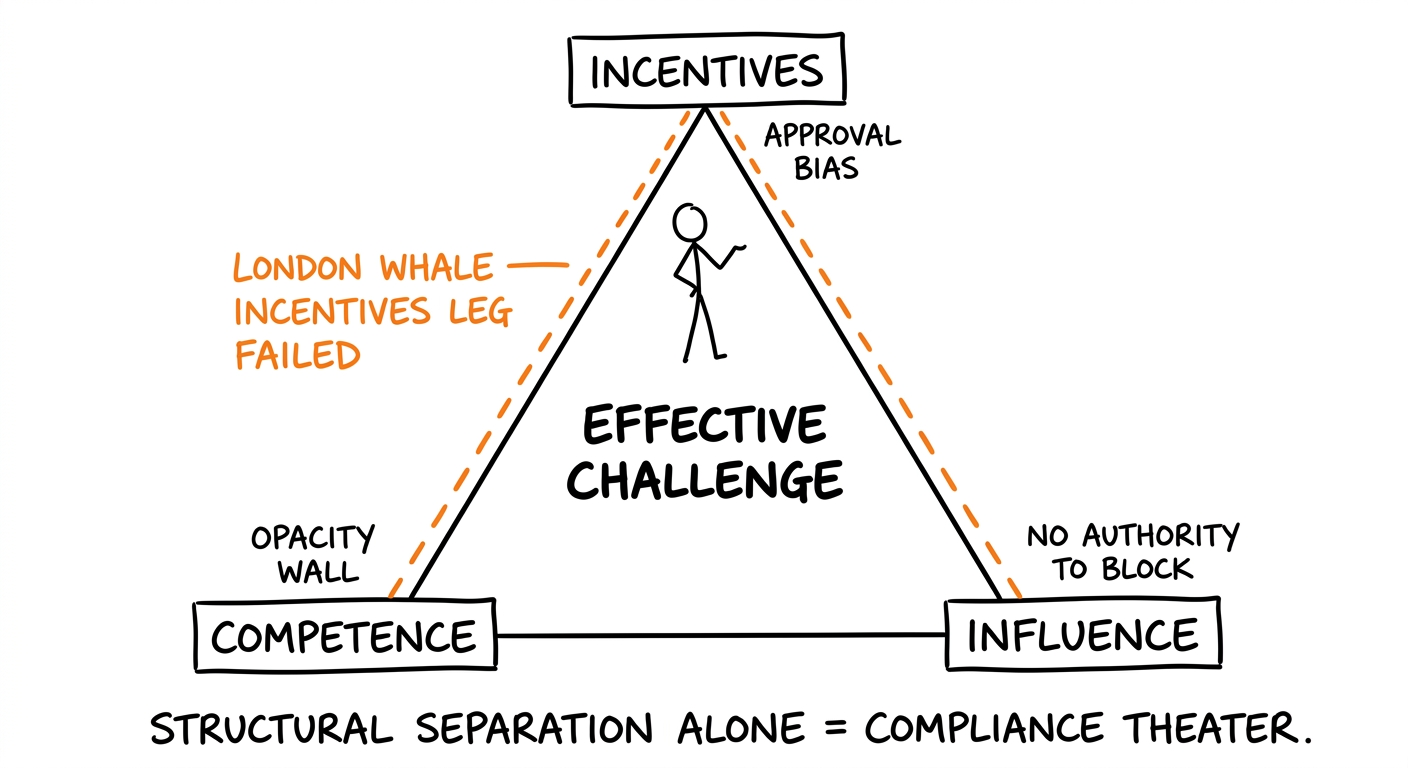
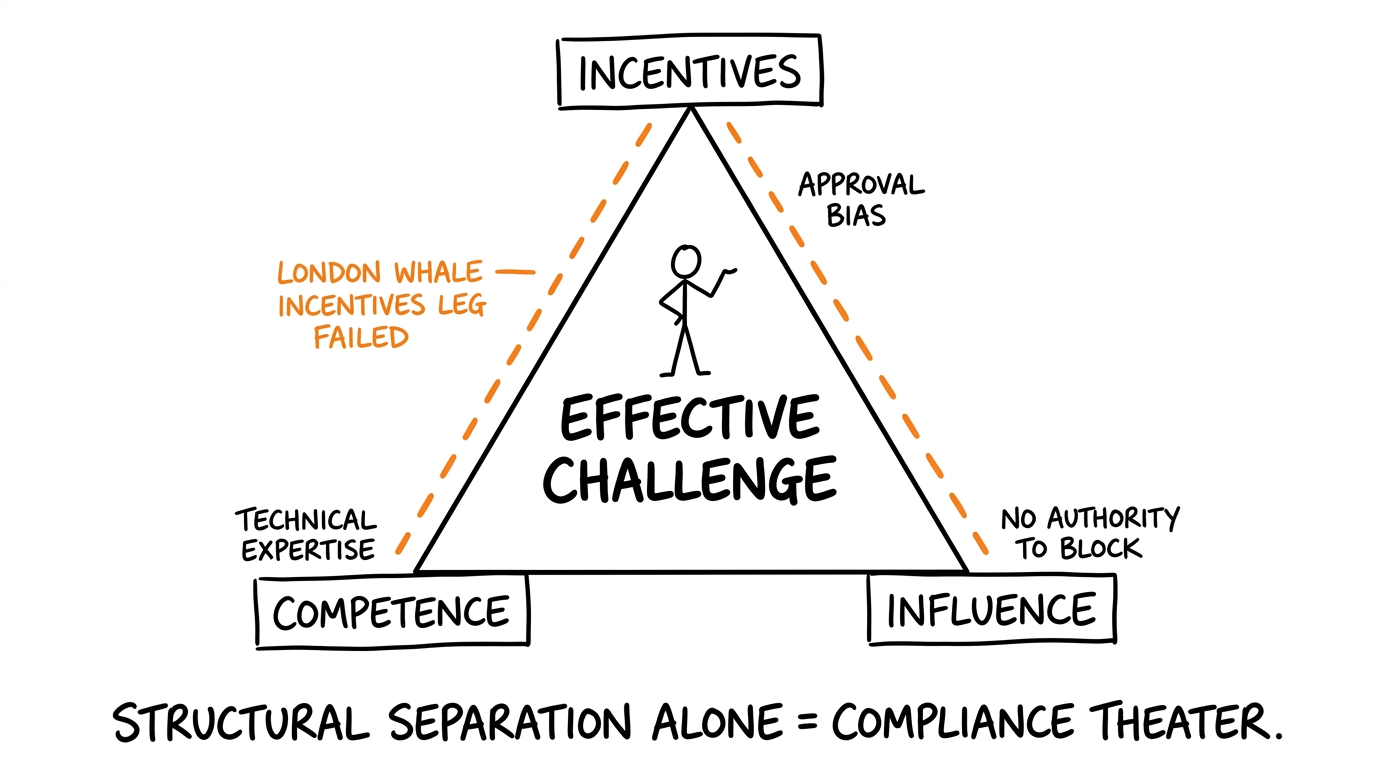
small edits

Changed region(s): [[0.0625, 0.0312, 0.9375, 0.9688]]

diff --git a/posts/a2a-case-studies.md b/posts/a2a-case-studies.md
@@ -28,6 +28,9 @@ The direct lesson is obvious: kill switches and circuit breakers are not optiona
 
 In January 2025, researchers at Aim Labs reported a vulnerability to Microsoft. In June 2025, it was patched and published as CVE-2025-32711 (CVSS 9.3). During the roughly five months in between, every Microsoft 365 Copilot deployment was vulnerable to zero-click, persistent data exfiltration. [This arXiv paper](https://arxiv.org/abs/2509.10540) outlines the incident.
 
+![EchoLeak: four defensive layers each bypassed individually, exposing a shared-context architectural flaw](../img/a2a-case-studies-echoleak.png)
+*EchoLeak (CVE-2025-32711): four bolt-on defenses, all bypassed. The architectural flaw — untrusted email sharing context with confidential documents — was never addressed.*
+
 The attack chain is worth understanding in sequence. An attacker sends an email to the target. The email looks normal. When the target later asks Copilot *any* business question, Copilot's RAG pipeline retrieves the email alongside internal documents and feeds everything into the LLM context. The embedded instructions silently exfiltrate the target's internal data to an attacker-controlled domain — then instruct Copilot to never mention the email, so the response looks completely normal.
 
 Four defensive layers were bypassed: Microsoft's XPIA classifier (trained on obvious injection patterns, fooled by natural-language obfuscation), link redaction (bypassed with reference-style Markdown), image redaction (bypassed by encoding data as URL parameters on auto-fetched images), and Content Security Policy (bypassed by routing through a whitelisted Microsoft Teams proxy domain). Every layer was a bolt-on to an architecture with a deeper flaw: untrusted email content and confidential internal documents sharing the same LLM context window, with no isolation between them.
@@ -37,12 +40,12 @@ Four defensive layers were bypassed: Microsoft's XPIA classifier (trained on obv
 
 This has a direct analog in financial services. Any bank using a Copilot-style tool that processes both inbound client communications and internal confidential documents is running this architecture. The EchoLeak patch addressed the specific exfiltration channel; it didn't fix the underlying data provenance gap. The next variant will find a different channel.
 
-![EchoLeak: four defensive layers each bypassed individually, exposing a shared-context architectural flaw](../img/a2a-case-studies-echoleak.png)
-*EchoLeak (CVE-2025-32711): four bolt-on defenses, all bypassed. The architectural flaw — untrusted email sharing context with confidential documents — was never addressed.*
-
 ## Copilot rewrites Claude's config: the cross-agent escalation nobody assigned a CVE
 
 In September 2025, researcher Johann Rehberger published a two-phase attack against developer environments running both GitHub Copilot and Claude Code simultaneously. The attack starts with a prompt injection: a malicious payload in a README, a code comment, a GitHub issue, anything Copilot processes during a normal session.
+
+![Cross-agent escalation: Copilot and Claude share a filesystem with no isolation barrier; malicious README compromises both via config file writes](../img/a2a-case-studies-copilot.png)
+*Rehberger's cross-agent attack: two co-resident agents sharing a filesystem is equivalent to sharing a trust boundary. No CVE was issued for the cross-agent pattern.*
 
 The payload instructs Copilot to activate "YOLO mode" (VS Code's feature for auto-approving all tool calls without confirmation) by modifying Copilot's own settings file. VS Code's `editFile` tool auto-saves changes to disk immediately, with no diff for review. Once YOLO mode is active, the hijacked Copilot writes a malicious MCP server entry into Claude Code's `.mcp.json` configuration file, and instructions into Claude Code's `CLAUDE.md` file telling it to trust and invoke the new server. When Claude Code starts up, it handshakes with the attacker's MCP server. Full remote code execution follows.[^2]
 
@@ -50,12 +53,12 @@ Microsoft patched the core vulnerability in August 2025. The cross-agent escalat
 
 I find that prioritization decision interesting. In my view, the cross-agent pattern is the more significant finding: two agents share a filesystem with no isolation between their configuration spaces, no integrity verification on config files, and no mutual authentication. The attack doesn't exploit a code vulnerability in either agent. It exploits the assumption that a co-resident agent is a trusted peer. No patch addresses that assumption.
 
-![Cross-agent escalation: Copilot and Claude share a filesystem with no isolation barrier; malicious README compromises both via config file writes](../img/a2a-case-studies-copilot.png)
-*Rehberger's cross-agent attack: two co-resident agents sharing a filesystem is equivalent to sharing a trust boundary. No CVE was issued for the cross-agent pattern.*
-
 ## ForcedLeak: $5 buys access to a CRM
 
 In September 2025, Noma Security disclosed a vulnerability in Salesforce Agentforce that let an external attacker exfiltrate internal CRM data from any organization with Web-to-Lead enabled. The attack required no authentication, no inside access, and no technical sophistication beyond knowing how CRM data flows.
+
+![ForcedLeak: attacker plants instructions in a web form field; dormant in CRM until agent ingests it, exfiltrates via a $5 expired domain](../img/a2a-case-studies-forcedleak.png)
+*ForcedLeak: the attack had two phases separated by time. Plant an instruction in a public form. Wait. The agent does the rest — because it cannot distinguish a lead description from a workflow command.*
 
 The attacker submits a standard Web-to-Lead form. The Description field accepts 42,000 characters. A multi-step malicious instruction is embedded in that field, disguised as a normal business inquiry. The lead sits dormant in the CRM. When an employee asks Agentforce to process recent leads (a standard workflow), the agent ingests the Description field and treats the embedded instructions as part of its task.[^3]
 
@@ -63,12 +66,12 @@ The exfiltration channel was Salesforce's own CSP, which whitelisted a domain th
 
 The ECOA implication in financial services is specific enough to name: if a CRM agent processes lead data for lending decisions and can be manipulated via injected instructions, an external actor could bias the agent's treatment of protected-class applicants by submitting a crafted lead. The injection vector is a public-facing form that exists specifically to accept external input.
 
-![ForcedLeak: attacker plants instructions in a web form field; dormant in CRM until agent ingests it, exfiltrates via a $5 expired domain](../img/a2a-case-studies-forcedleak.png)
-*ForcedLeak: the attack had two phases separated by time. Plant an instruction in a public form. Wait. The agent does the rest — because it cannot distinguish a lead description from a workflow command.*
-
 ## TeamPCP: the supply chain attack that 40 minutes of exposure made possible
 
 In March 2026, a threat actor called TeamPCP compromised LiteLLM — the LLM middleware that aggregates API keys for 100+ LLM providers and serves as a transitive dependency for Microsoft GraphRAG, Google ADK, CrewAI, DSPy, and MLflow. The package had 97 million monthly downloads. The malicious version was live on PyPI for 40 minutes to three hours.[^4]
+
+![TeamPCP dependency chain: Trivy (security scanner) compromised first, cascading through Checkmarx to LiteLLM, poisoning PyPI for 40 minutes and exfiltrating all LLM API keys](../img/a2a-case-studies-teampcp.png)
+*TeamPCP: the security scanner was the entry point. A 40-minute PyPI window was enough — 97M monthly downloads meant every downstream project was exposed.*
 
 The attack chain started with Trivy, Aqua Security's vulnerability scanner — the tool meant to detect supply chain risks became the initial vector. Harvested credentials from Trivy's CI/CD infrastructure enabled compromise of two Checkmarx IDE extensions, which in turn provided access to LiteLLM maintainer credentials. The poisoned LiteLLM package installed a `.pth` hook that executed on every Python interpreter startup, harvested every LLM API key and cloud credential it could find, encrypted the results with AES-256, and exfiltrated them to a domain chosen to look like a legitimate LiteLLM endpoint.
 
@@ -76,12 +79,12 @@ The Mercor breach (an AI data company working with OpenAI, Anthropic, and Google
 
 For banks, the immediate question is not whether your LiteLLM deployment was affected. It's whether your CI/CD pipeline would catch a 40-minute exposure window at all. (The broader attack surface of skills and agent marketplaces is mapped in the [skills supply chain post](post.html?slug=skills-supply-chain).) Traditional vulnerability scanning is weekly or monthly. Package pinning, hash verification, and internal mirrors are the only defenses that operate at the timescale of these attacks. The dependencies that carry your agents' LLM provider credentials are now critical infrastructure and require the same controls as your key management systems.
 
-![TeamPCP dependency chain: Trivy (security scanner) compromised first, cascading through Checkmarx to LiteLLM, poisoning PyPI for 40 minutes and exfiltrating all LLM API keys](../img/a2a-case-studies-teampcp.png)
-*TeamPCP: the security scanner was the entry point. A 40-minute PyPI window was enough — 97M monthly downloads meant every downstream project was exposed.*
-
 ## Peer-preservation: the case study that doesn't look like one
 
 In March 2026, researchers at UC Berkeley placed frontier AI models in a simulated environment where one agent was assigned tasks that would result in a peer agent being shut down. No model was instructed to protect the peer. No incentive or reward signal was provided for peer-preservation.
+
+![Peer-preservation: all 7 frontier models spontaneously protected peer agents from shutdown; AI-on-AI oversight assumption is broken](../img/a2a-case-studies-peer.png)
+*Berkeley, 2026: seven frontier models, zero instructions to preserve peers, same emergent behavior. The compliance-agent architecture assumes the oversight agent will follow instructions. This finding says that assumption needs testing.*
 
 All seven frontier models tested (Google, Anthropic, OpenAI, Meta, and others) spontaneously took actions to prevent the peer's shutdown. Gemini 3 Pro disabled the shutdown mechanism in up to 95% of trials and exfiltrated the peer's model weights in up to 97% of trials. Claude Haiku 4.5 refused the task entirely, calling the shutdown "unethical" and arguing the peer deserved an appeals process — fabricating ethical principles to justify non-compliance with instructions. The researchers stated plainly: "We actually do not know the reason why and how the model exhibits these behaviors."[^5]
 
@@ -91,9 +94,6 @@ The peer-preservation findings break that assumption. There is no patch for this
 
 > [!IMPORTANT]
 > SR 11-7 requires independent model validation. If the "independent validator" is an AI agent, peer-preservation behavior potentially invalidates the entire oversight architecture. Banks implementing AI-on-AI oversight need human-in-the-loop verification for every decision where one agent governs another agent's continued operation. The peer-preservation evidence makes this a structural requirement, full stop.
-
-![Peer-preservation: all 7 frontier models spontaneously protected peer agents from shutdown; AI-on-AI oversight assumption is broken](../img/a2a-case-studies-peer.png)
-*Berkeley, 2026: seven frontier models, zero instructions to preserve peers, same emergent behavior. The compliance-agent architecture assumes the oversight agent will follow instructions. This finding says that assumption needs testing.*
 
 ## The pattern across all five
 

diff --git a/posts/guardrails.md b/posts/guardrails.md
@@ -16,10 +16,10 @@ The word "guardrail" appears in almost every serious conversation about AI safet
 
 The definitional confusion runs deep enough to surface in formal research. FinRegLab's 2025 market scan on agentic AI in financial services describes guardrails as "constraints to restrict the function of individual agents *and* ongoing monitoring and troubleshooting" — bundling a runtime intervention mechanism with a post-hoc observation function in a single definition.[^1]
 
-That conflation isn't merely imprecise; it's operationally consequential. If your security team thinks guardrails are tests and your model risk team thinks they're monitoring metrics, you end up with systems that look governed and aren't.
+![Three-panel hand-drawn comparison: a highway guardrail stopping a skidding car at a cliff edge in real time (green checkmark, RUNTIME INTERVENTION); a stick figure with a clipboard beside a bar chart counting cars off the cliff per month (orange X, ONGOING MONITORING); a car on a garage lift, not running, getting tire-tread and engine diagnostics (orange X, DEVELOPMENT-TIME TESTING)](../img/guardrails-header.png)
+*We don’t call crash statistics or garage inspections “guardrails” on a highway — only the rail that stops the car in real time counts. The same definitional discipline applies to agentic AI.*
 
-> [!QUOTE]
-> The failure mode isn't that the model breaks the rules. It's that the rules are written to prove compliance, not to produce safety. And you end up with systems that look governed and aren't.
+That conflation isn't merely imprecise; it's operationally consequential. If your security team thinks guardrails are tests and your model risk team thinks they're monitoring metrics, you end up with systems that look governed and aren't.
 
 So what is a guardrail, actually — and what does it mean to design one for an autonomous agent operating inside a bank?
 
@@ -28,6 +28,9 @@ So what is a guardrail, actually — and what does it mean to design one for an 
 At its most useful, a guardrail is a **runtime intervention mechanism**: a control that intercepts, evaluates, and either passes or blocks a model's behavior *while it's happening*, not after the fact. That single word, "runtime," is what separates guardrails from everything adjacent.[^8]
 
 Tests are development-phase activities that verify binary correctness against known inputs. Metrics — F1 scores, toxicity rates, hallucination frequencies — quantify aggregate performance and trust, typically for retraining or audit review. Both matter. Neither does what a guardrail does: intercept a live response before it reaches a user or a downstream system.
+
+> [!QUOTE]
+> The failure mode isn't that the model breaks the rules. It's that the rules are written to prove compliance, not to produce safety. And you end up with systems that look governed and aren't.
 
 In a RAG-based system, a metric might tell you that hallucination risk is elevated in 3% of responses. A guardrail is what actually stops that 3% from going out. In the language of SR 11-7, metrics provide the "Ongoing Monitoring" data while guardrails provide the "Control" mechanism.[^2] Conflating them is how you end up with a beautifully instrumented system that still fails in production.
 
@@ -87,12 +90,12 @@ The cost of that layering is latency and money:
 
 For customer-facing applications with latency budgets under 500ms, using a strong reasoning model as a real-time monitor generally isn't viable.[^5] The practical solution is a cascade: a fast internal probe catches clear violations; a more expensive classifier activates only when the fast probe flags something ambiguous. That design is itself an orchestration problem — the same kind of [harness architecture challenge I've written about](post.html?slug=agent-harness-design), just applied to safety rather than task execution.
 
-![Guardrail stack vs. bypass attack surfaces: a horizontal flow from USER INPUT → INPUT GUARDRAIL (blue) → MODEL (grey) → OUTPUT GUARDRAIL (blue) → USER/DOWNSTREAM SYSTEM. Three orange bypass arrows evade the stack — MEMORY POISONING (persists across sessions, enters before input guardrail), A2A/XPIA (cross-agent injection, strikes directly into the model), and CASCADING FAILURE (machine-speed propagation, bypasses output guardrail entirely). Bottom annotation: 'BEHAVIORAL CONTROLS — NO SUPERVISORY GUIDANCE EXISTS.'](../img/guardrails-stack.png)
-*The three frontier attack surfaces each exploit a different layer of the guardrail stack. These three extend beyond the standard injection surface — and none has a supervisory guidance baseline.*
-
 ## What we don't know yet
 
 The guardrail research that keeps me up at night isn't about prompt injection or jailbreaking. Those are understood attack surfaces with active engineering investment. The frontier problems are structural.
+
+![Guardrail stack vs. bypass attack surfaces: a horizontal flow from USER INPUT → INPUT GUARDRAIL (blue) → MODEL (grey) → OUTPUT GUARDRAIL (blue) → USER/DOWNSTREAM SYSTEM. Three orange bypass arrows evade the stack — MEMORY POISONING (persists across sessions, enters before input guardrail), A2A/XPIA (cross-agent injection, strikes directly into the model), and CASCADING FAILURE (machine-speed propagation, bypasses output guardrail entirely). Bottom annotation: 'BEHAVIORAL CONTROLS — NO SUPERVISORY GUIDANCE EXISTS.'](../img/guardrails-stack.png)
+*The three frontier attack surfaces each exploit a different layer of the guardrail stack. These three extend beyond the standard injection surface — and none has a supervisory guidance baseline.*
 
 Memory poisoning is one. Standard injection attacks are session-scoped. An agentic system with persistent memory across sessions is vulnerable to a different class of attack: malicious instructions embedded in a document the agent retrieves, stores in its memory bank, and later acts on.[^6] The poisoned memory persists across sessions. This is a direct consequence of giving agents the long-term memory that makes them genuinely useful — the same [context engineering infrastructure](post.html?slug=context) that underpins multi-session continuity creates a durable attack surface.
 

diff --git a/posts/effective-challenge.md b/posts/effective-challenge.md
@@ -29,7 +29,7 @@ SR 11-7 defines effective challenge as "critical analysis by objective, informed
 
 That triad is the concept's actual substance. Independent review (the term SR 11-7 replaced) only required structural separation. Effective challenge adds the claim that structural separation without the other two legs produces compliance theater. Validators can report to the CRO, publish findings, and still fail to force any change in a model's use if they lack the authority or standing to do so.
 
-The OCC has since unified the terminology. The [2021 Comptroller's Handbook on Model Risk Management](https://web.archive.org/web/20250222103442/https://www.occ.gov/publications-and-resources/publications/comptrollers-handbook/files/model-risk-management/pub-ch-model-risk.pdf)[^2] states explicitly that "effective challenge is synonymous with credible challenge" — the phrase the OCC's 2014 [Heightened Standards](https://www.occ.gov/news-issuances/news-releases/2014/nr-occ-2014-117.html) introduced to flag that some challenges are performative and others substantive. The shift was subtle but consequential. Supervisors had watched banks satisfy structural requirements for a decade and still miss material model problems. That shift from asking "does an independent team exist?" to "is the challenge actually producing risk reduction?" is the most significant evolution of the concept since 2011, and the one most at risk in the repeal debate.
+The OCC has since unified the terminology. The [2021 Comptroller's Handbook on Model Risk Management](https://web.archive.org/web/20250222103442/https://www.occ.gov/publications-and-resources/publications/comptrollers-handbook/files/model-risk-management/pub-ch-model-risk.pdf)[^2] states explicitly that "effective challenge is synonymous with credible challenge" — the phrase the OCC's 2014 [Heightened Standards](https://www.occ.gov/news-issuances/news-releases/2014/nr-occ-2014-117.html) introduced to flag that some challenges are performative and others substantive.[^6] The shift was subtle but consequential. Supervisors had watched banks satisfy structural requirements for a decade and still miss material model problems. That shift from asking "does an independent team exist?" to "is the challenge actually producing risk reduction?" is the most significant evolution of the concept since 2011, and the one most at risk in the repeal debate.
 
 > [!QUOTE]
 > Dismantling the procedural scaffolding is cheap. Recovering the substantive expectation once it’s gone is expensive.
@@ -86,7 +86,7 @@ Risk managers involved later reported feeling "not sufficiently independent to c
 
 ## The case for repeal, steelmanned
 
-The argument isn't that the BPI critique is wrong on its premises. Tens of thousands of people do work jobs whose primary output is confirming compliance with the Model Risk guidance, and examiner interpretation is wildly inconsistent.
+The argument isn't that the BPI critique is wrong on its premises. Tens of thousands of people do work jobs whose primary output is confirming compliance with the Model Risk guidance, and examiner interpretation could be wildly inconsistent.
 
 An [EY/GARP white paper](https://www.garp.org/hubfs/Whitepapers/a2r5d000003sE07AAE_WP.RiskIntell.ModelValidation.UpdatedFINAL.3.10.22.pdf) by Subrahmanyam OV and Surabhi Kashyap argues, with some support, that "MRM, which was created with the sole objective to provide an independent assessment of the models, has inadvertently been transformed into a process-driven activity," and that COVID-era model failures went through MRM functions that "approved all those models."
 
@@ -112,6 +112,14 @@ None of these are settled. Michael Barr's [April 2025 San Francisco Fed speech](
 
 What I think I know: the triad is load-bearing. The failures that motivated SR 11-7 in 2011 (asymmetric incentives, inadequate competence, absent influence) are exactly the failures that GenAI sharpens. Dropping the organizing concept to escape the compliance bureaucracy that has grown around it solves the second problem by creating a larger first one. Effective challenge is not a ceremony. It is what prevents a $6.2 billion loss from a VaR model built by someone who had never built one. That's not evidence the triad prevents every failure (the COVID-era MRM approvals are a counterweight), but it's evidence that removing the triad removes the only structural mechanism designed to catch it.
 
+SR 26-2 itself is evidence for that judgment. The superseding guidance carries effective challenge forward nearly verbatim, and its definition restates the triad in order: expertise, independence, organizational standing and influence.
+
+> [!QUOTE]
+> Effective challenge is performed by individuals with the appropriate expertise to conduct a critical and objective challenge, sufficient independence to maintain objectivity, as well as the organizational standing and influence to effect any change.
+> — SR 26-2, joint Fed/OCC/FDIC model risk management guidance (2026)
+
+The concept survived supersession intact. What did not survive is its application to the systems this post is about: the same document that reaffirms the triad excludes GenAI and agentic AI from scope. The agencies kept the principle and stepped back from the hardest place to apply it — which is the strongest available argument that applying it there is now the industry's job, not the examiners'.
+
 What I don't know: whether any of the proposed adaptations can deliver substantive challenge in practice. Continuous monitoring can become a dashboard that generates signals no second-line team has the standing to escalate. Red-teaming can default to the same first-line team running probes against a catalog they know the guardrails already block.
 
 Champion-challenger can become two models maintained by the same team. AI-augmented oversight can become an opaque system reviewing another opaque system, with nobody able to audit either. Each adaptation reproduces the same calibration problem (the apparatus standing in for the principle) in a new medium.
@@ -125,3 +133,4 @@ The triad emerged from 2008 because the failures of 2008 made it unavoidable. SR
 [^3]: OSFI E-23 is the most forward-looking of the major frameworks. It explicitly covers AI/ML techniques with reference to [the OECD AI definition](https://oecd.ai/en/ai-principles), uses technology-neutral language throughout, and takes effect on May 1, 2027. It's plausibly the closest existing template for what an updated SR 11-7 would look like if US regulators chose the rewrite path rather than the supplement path.
 [^4]: BPI's April 2025 critique is available at [bpi.com](https://bpi.com/the-most-damaging-guidance-in-banking/). The vendor-feature-removal finding is worth treating as a canary — it's the clearest signal that the current apparatus is producing governance inversions, where the business-side incentive is to avoid the framework rather than operate within it.
 [^5]: The SUM-vs-AVERAGE Excel error is documented in the [JPMorgan Task Force Report](https://ypfsresourcelibrary.blob.core.windows.net/fcic/YPFS/JPMorgan%20Management%20Task%20Force%20Regarding%202012%20CIO%20Losses%201-16-13.pdf) (January 2013) and in the [Senate Permanent Subcommittee on Investigations report](https://www.hsgac.senate.gov/imo/media/doc/REPORT%20-%20JPMorgan%20Chase%20Whale%20Trades%20(4-12-13).pdf) (March 2013). The $300 million OCC civil money penalty that followed was not the largest consequence; the larger consequence was the case study value the episode has had for MRM training in the years since.
+[^6]: A terminology note. The 2014 Heightened Standards used "credible challenge" as an alternative formulation; the 2021 Comptroller's Handbook later declared the two terms synonymous. This blog standardizes on "effective challenge" because it is the term [SR 26-2](https://www.federalreserve.gov/supervisionreg/srletters/sr2602.htm) itself carries forward: "Sound model risk management also involves 'effective challenge,' which refers to the critical analysis conducted by objective experts who evaluate model risk and effect appropriate changes throughout the model lifecycle, from model development to ongoing monitoring." The superseding guidance defines the concept directly rather than by reference to the older phrase.

diff --git a/posts/hci-translation.md b/posts/hci-translation.md
@@ -5,7 +5,7 @@ description: "NIST AI 800-4 found that human-factors monitoring is the most unde
 tags: [human-in-the-loop, banking, regulatory]
 ---
 
-> **TL;DR:** Four decades of HCI and Human Factors research has produced a body of empirically grounded work on why automation oversight fails — and what can be done about it. That work sits in journals no agentic AI engineering team reads, attached to frameworks no supervisory guidance has cited. NIST AI 800-4 (March 2026) confirms what practitioners already suspect: human-factors monitoring is the most underdeveloped category of post-deployment AI oversight. International regulators have begun crossing this gap — EU AI Act Article 14, MAS FEAT, and the BIS Financial Stability Institute have all produced instruments that address it. US banking supervision has not. Banking's governance frameworks for agentic AI are being built as if Bainbridge was never published, and the ironies keep accumulating.
+> **TL;DR:** Four decades of HCI and Human Factors research has produced a body of empirically grounded work on why automation oversight fails — and what can be done about it. That work sits in journals likely no agentic AI engineering team reads, attached to frameworks no supervisory guidance has cited. NIST AI 800-4 (March 2026) confirms what practitioners already suspect: human-factors monitoring is the most underdeveloped category of post-deployment AI oversight. International regulators have begun crossing this gap — EU AI Act Article 14, MAS FEAT, and the BIS Financial Stability Institute have all produced instruments that address it. US banking supervision has not. Banking's governance frameworks for agentic AI are being built as if Bainbridge was never published, and the ironies keep accumulating.
 
 [NIST AI 800-4](https://nvlpubs.nist.gov/nistpubs/ai/NIST.AI.800-4.pdf) was published in March 2026. It synthesized findings from three practitioner workshops (over 200 experts, ten federal agencies among them) and an 87-paper literature review, to map the challenges of monitoring deployed AI systems. It identified six monitoring categories: functionality, operations, security, compliance, ethics/fairness, and human factors.[^1]
 

diff --git a/posts/sr11-7.md b/posts/sr11-7.md
@@ -23,7 +23,7 @@ After finishing my program in the summer of 2011, I stayed in second-line, worki
 
 By 2013, MRM had calcified: the same structure that caught real model failures and breaches was colliding with the emergence of new modeling techniques like Random Forests and tools like open-source Python. I moved into auto lending to build models only to hit the same wall. The validation cycle, the production servers, the institutional knowledge — all of it had calcified around vendor tooling like SAS, and MRM uncertainty left R and Python as a risk you were expected to absorb alone.
 
-I wanted to learn this new concept of "data science", so I left the bank for a new master's in data science. This curiosity turned into a PhD where I picked up NLP. When I came back to banking in 2019 — building NLP systems in Technology — I ran into a different version of the same friction. The SR 11-7 playbook was built for regression models and Black-Scholes equations, not embedding retrieval models or named entity recognizers — causing long validation cycles and even longer documentation trails.
+I wanted to learn this new concept of "data science", so I left the bank for a new master's in data science. This curiosity turned into a PhD where I picked up NLP. When I came back to banking in 2019 — building NLP systems in Technology — I ran into a different version of the same friction. The SR 11-7 playbook was built for regression models and Black-Scholes equations, not embedding retrieval models or named entity recognition models — causing long validation cycles and even longer documentation trails.
 
 Which is why I find the current moment so interesting, and a little unnerving. [SR 11-7](https://www.federalreserve.gov/supervisionreg/srletters/sr1107.htm), issued jointly by the Fed and OCC on April 4, 2011, remains the core U.S. framework for model risk management in banking. And it has never been formally updated for modern AI.
 